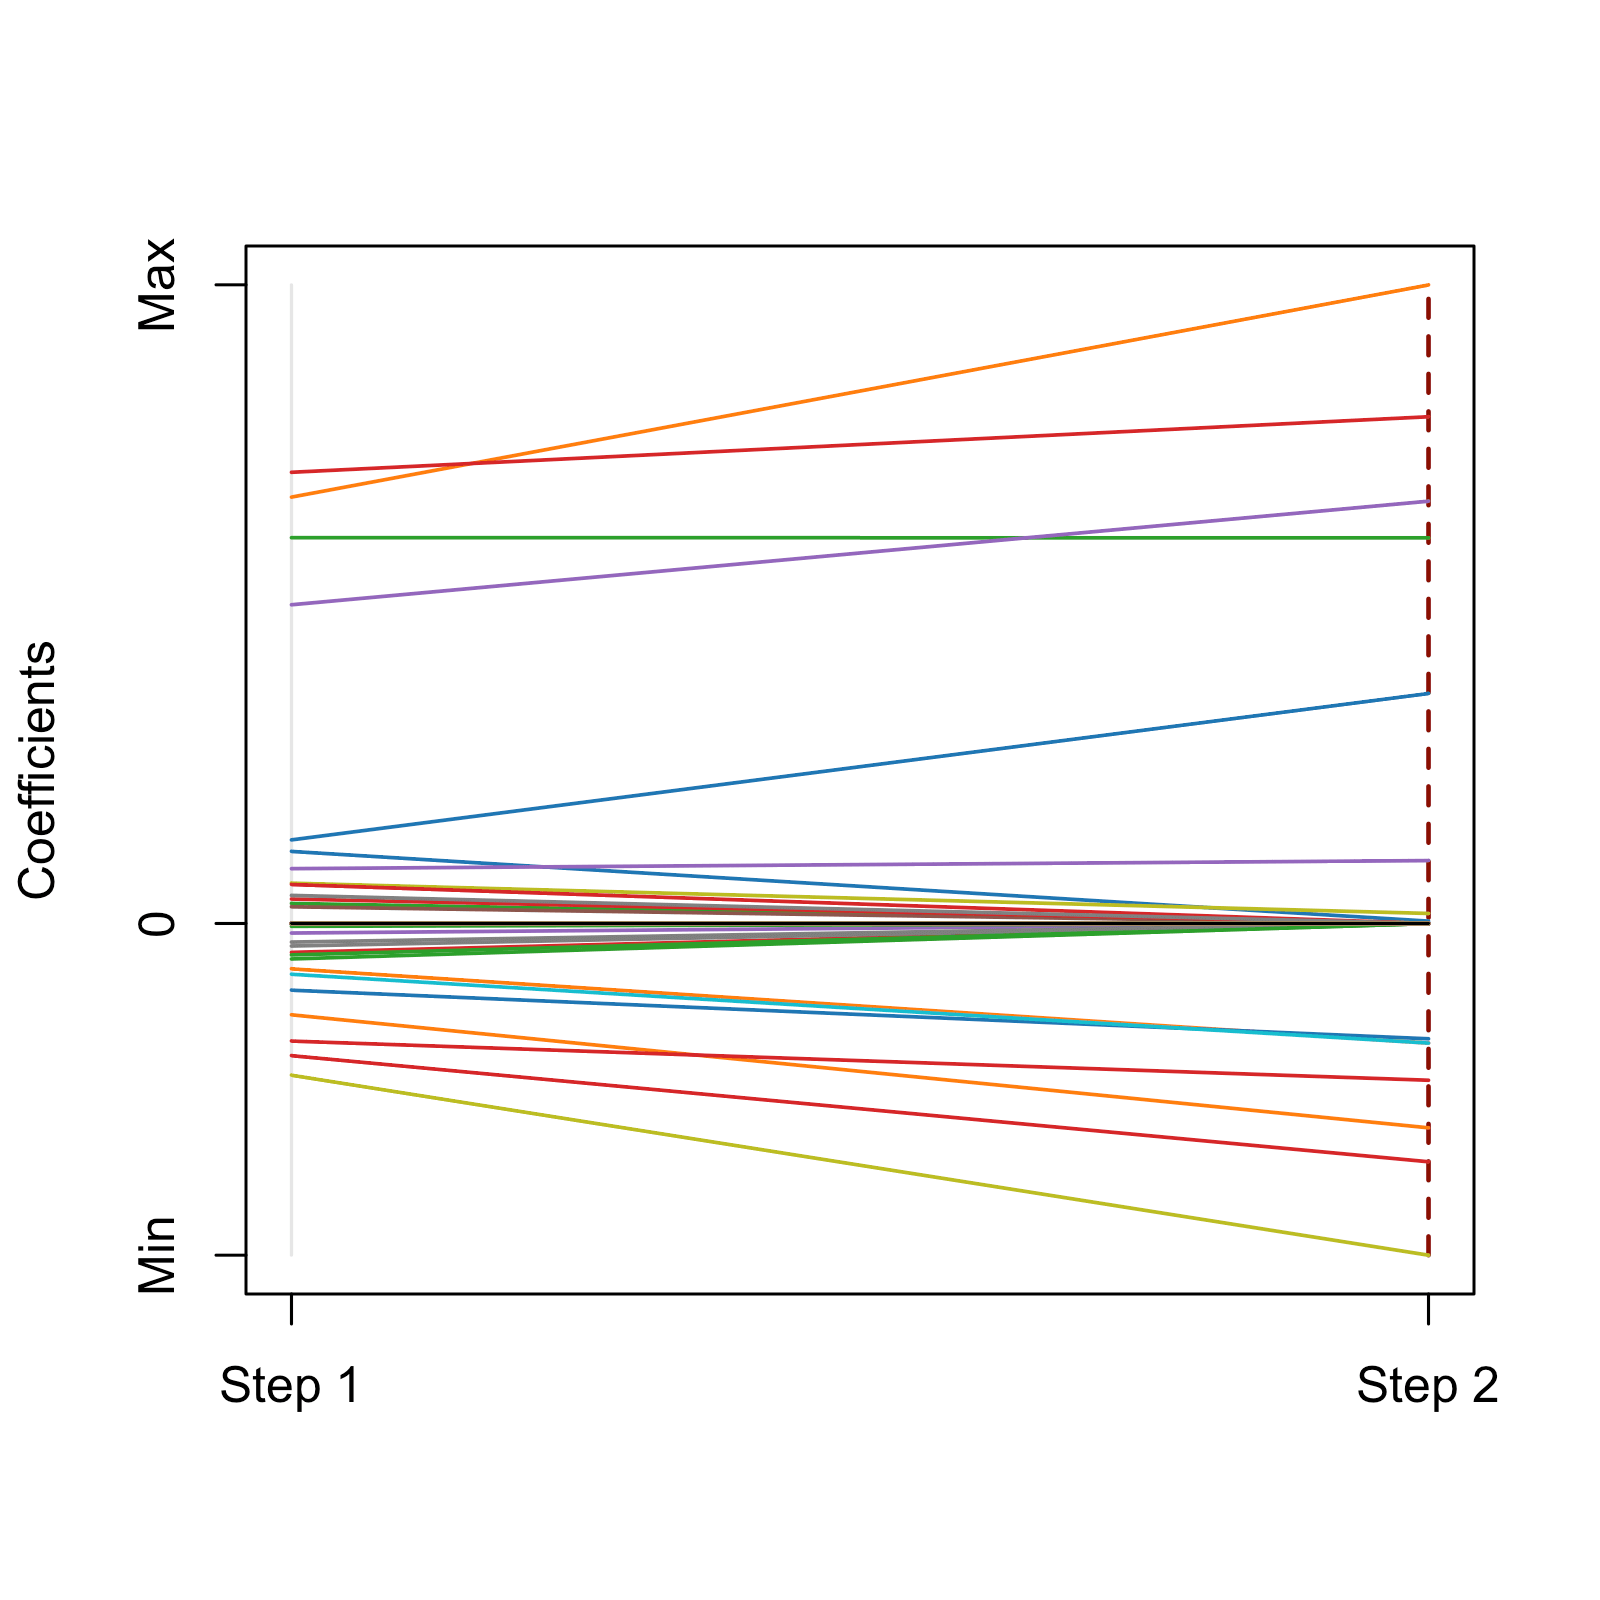
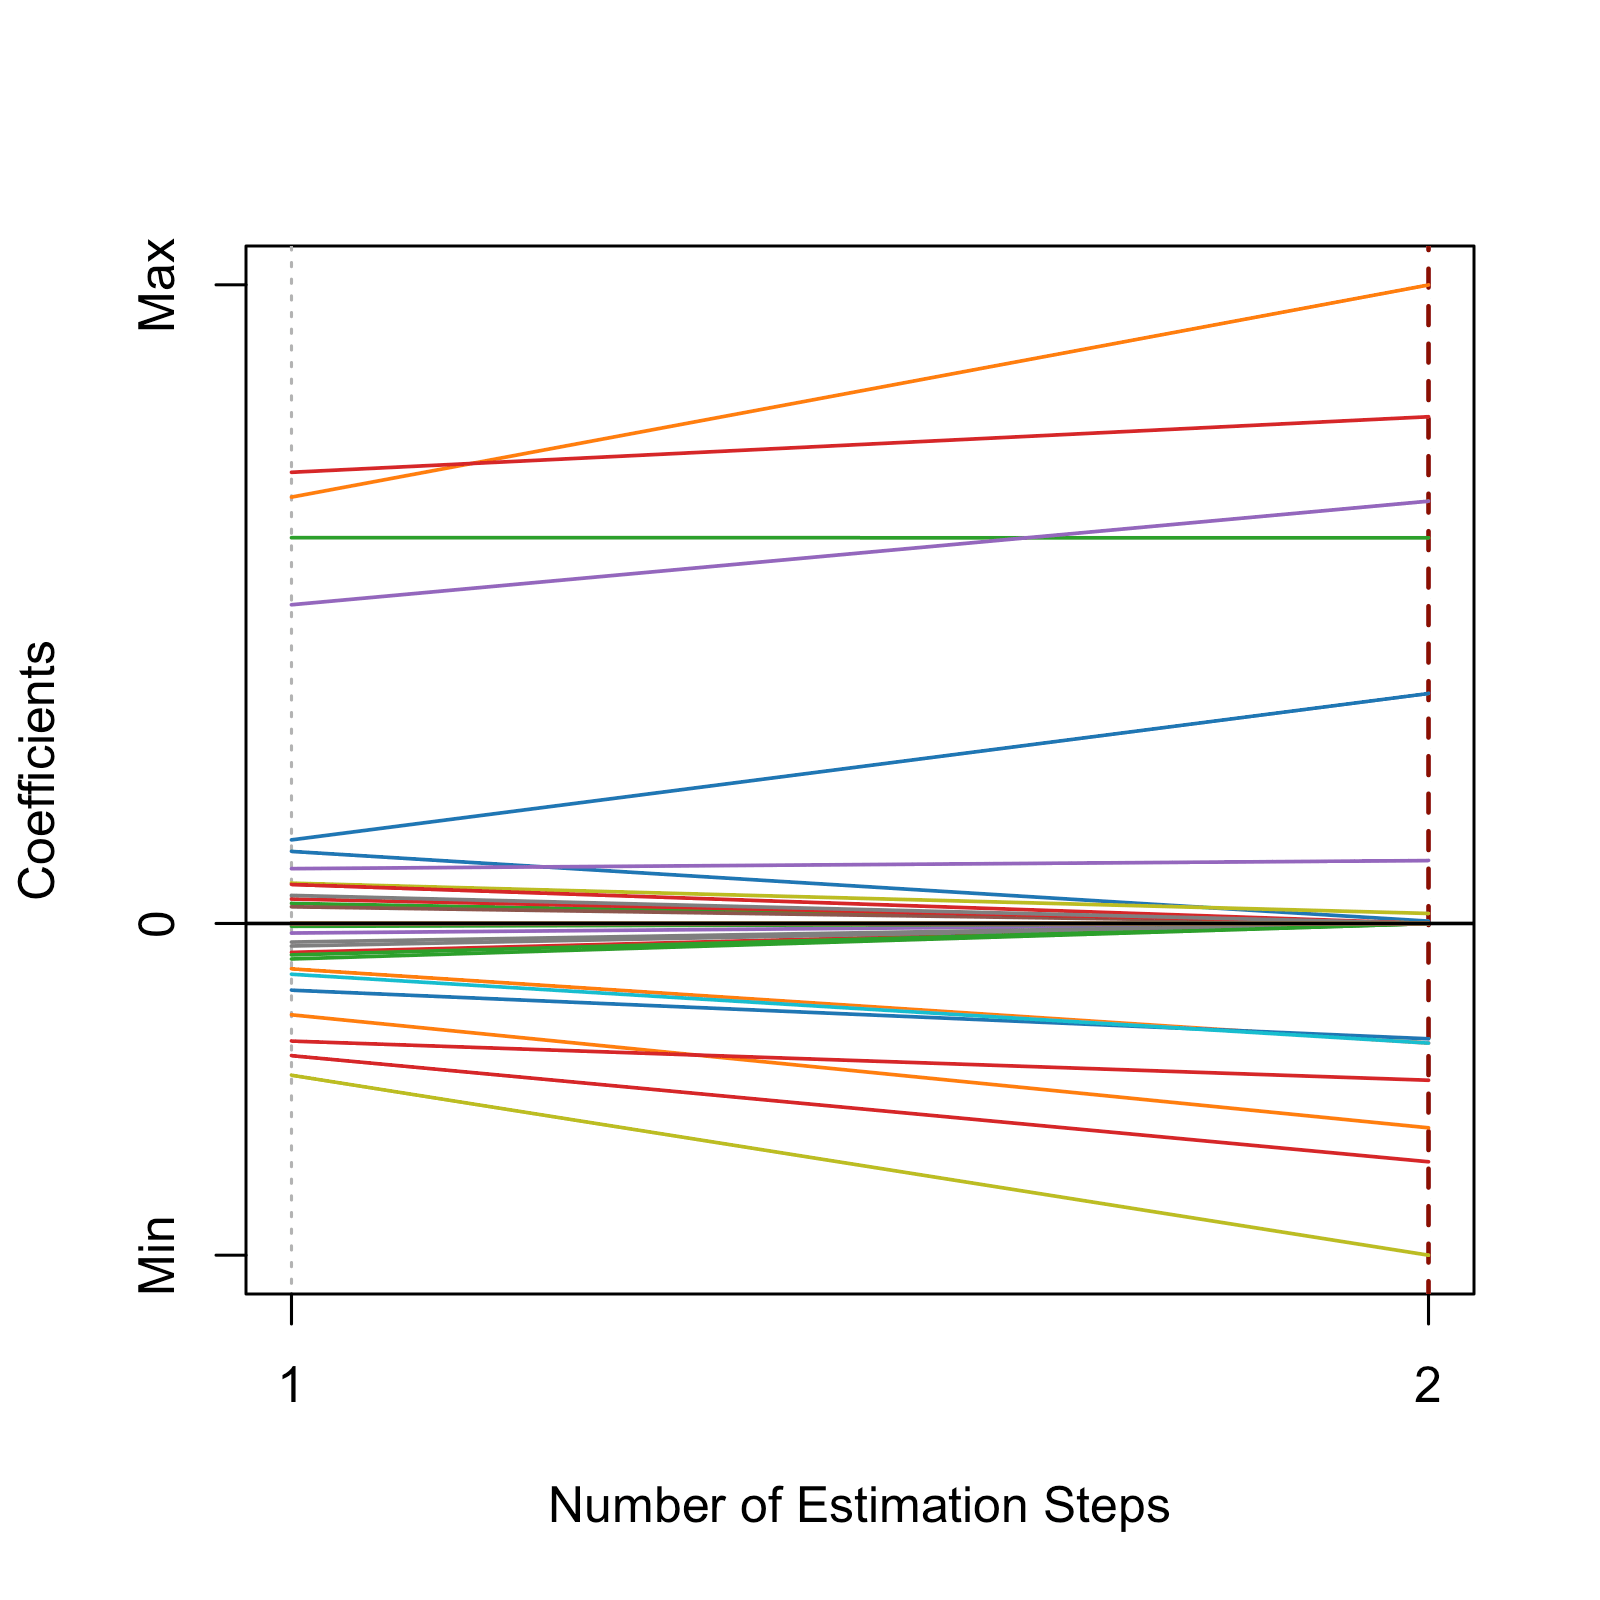
update website for v2.4 release

diff --git a/news/index.html b/news/index.html
@@ -82,12 +82,22 @@
     </div>
 
     <div class="contents">
-    <div id="msaenet-2-3-2017-02-09" class="section level1">
+    <div id="msaenet-2-4-2017-02-17" class="section level1">
 <h1 class="hasAnchor">
-<a href="#msaenet-2-3-2017-02-09" class="anchor"> </a>msaenet 2.3 (2017-02-09)</h1>
+<a href="#msaenet-2-4-2017-02-17" class="anchor"> </a>msaenet 2.4 (2017-02-17)</h1>
 <div id="improvements" class="section level2">
 <h2 class="hasAnchor">
 <a href="#improvements" class="anchor"> </a>Improvements</h2>
+<ul><li>Improved graphical details for coefficient path plots, following the general graphic style in the ESL (<em>The Elements of Statistical Learning</em>) book.</li>
+<li>More options available in <code><a href="../reference/plot.msaenet.html">plot.msaenet()</a></code> for extra flexibility: it is now possible to set important properties of the label appearance such as position, offset, font size, and axis titles via the new arguments <code>label.pos</code>, <code>label.offset</code>, <code>label.cex</code>, <code>xlab</code>, and <code>ylab</code>.</li>
+</ul></div>
+</div>
+    <div id="msaenet-2-3-2017-02-09" class="section level1">
+<h1 class="hasAnchor">
+<a href="#msaenet-2-3-2017-02-09" class="anchor"> </a>msaenet 2.3 (2017-02-09)</h1>
+<div id="improvements-1" class="section level2">
+<h2 class="hasAnchor">
+<a href="#improvements-1" class="anchor"> </a>Improvements</h2>
 <ul><li>Reduced model saturation cases and improved speed at the initialization step for MCP-net and SCAD-net based models when <code>init = "ridge"</code>, by using the ridge estimation implementation from <code>glmnet</code>. As a benefit, we now have a more aligned baseline for the comparison between elastic-net based models and MCP-net/SCAD-net based models when <code>init = "ridge"</code>.</li>
 <li>Style improvements in code and examples: reduced whitespace with a new formatting scheme.</li>
 </ul></div>
@@ -103,9 +113,9 @@
 <li>Added arguments <code>ebic.gamma</code> and <code>ebic.gamma.nsteps</code> to control the EBIC tuning parameter, if <code>ebic</code> is specified by <code>tune</code> or <code>tune.nsteps</code>.</li>
 <li>Redesigned plot function: now supports two types of plots (coefficient path, screeplot of the optimal step selection criterion), optimal step highlighting, variable labeling, and color palette customization. See <code><a href="../reference/plot.msaenet.html">?plot.msaenet</a></code> for details.</li>
 </ul></div>
-<div id="improvements-1" class="section level2">
+<div id="improvements-2" class="section level2">
 <h2 class="hasAnchor">
-<a href="#improvements-1" class="anchor"> </a>Improvements</h2>
+<a href="#improvements-2" class="anchor"> </a>Improvements</h2>
 <ul><li>Renamed previous argument <code>gamma</code> (scaling factor for adaptive weights) to <code>scale</code> to avoid possible confusion.</li>
 <li>Reset the default values of candidate concavity parameter <code>gammas</code> to be 3.7 for SCAD-net and 3 for MCP-net.</li>
 <li>Unified the supported model <code>family</code> in all model types to be <code>"gaussian"</code>, <code>"binomial"</code>, <code>"poisson"</code>, and <code>"cox"</code>.</li>
@@ -121,9 +131,9 @@
 <li>Added function <code><a href="../reference/msaenet.fn.html">msaenet.fn()</a></code> for computing the number of false negative selections in msaenet models.</li>
 <li>Added function <code><a href="../reference/msaenet.mse.html">msaenet.mse()</a></code> for computing mean squared error (MSE).</li>
 </ul></div>
-<div id="improvements-2" class="section level2">
+<div id="improvements-3" class="section level2">
 <h2 class="hasAnchor">
-<a href="#improvements-2" class="anchor"> </a>Improvements</h2>
+<a href="#improvements-3" class="anchor"> </a>Improvements</h2>
 <ul><li>Speed improvements in <code><a href="../reference/msaenet.sim.gaussian.html">msaenet.sim.gaussian()</a></code> by more vectorization when generating correlation matrices.</li>
 <li>Added parameters <code>max.iter</code> and <code>epsilon</code> for MCP-net and SCAD-net related functions to have finer control over convergence criterion. By default, <code>max.iter = 10000</code> and <code>epsilon = 1e-4</code>.</li>
 </ul></div>
@@ -140,9 +150,9 @@
 <li>Added support for multi-step adaptive SCAD-net (MSASNet). See <code><a href="../reference/msasnet.html">?msasnet</a></code> for details.</li>
 <li>Added <code><a href="../reference/msaenet.nzv.all.html">msaenet.nzv.all()</a></code> for displaying the indices of non-zero variables in all adaptive estimation steps.</li>
 </ul></div>
-<div id="improvements-3" class="section level2">
+<div id="improvements-4" class="section level2">
 <h2 class="hasAnchor">
-<a href="#improvements-3" class="anchor"> </a>Improvements</h2>
+<a href="#improvements-4" class="anchor"> </a>Improvements</h2>
 <ul><li>More flexible <code>predict.msaenet</code> method allowing users to specify prediction type.</li>
 </ul></div>
 </div>
@@ -154,9 +164,9 @@
 <a href="#new-features-3" class="anchor"> </a>New Features</h2>
 <ul><li>Added method <code>coef</code> for extracting model coefficients. See <code><a href="../reference/coef.msaenet.html">?coef.msaenet</a></code> for details.</li>
 </ul></div>
-<div id="improvements-4" class="section level2">
+<div id="improvements-5" class="section level2">
 <h2 class="hasAnchor">
-<a href="#improvements-4" class="anchor"> </a>Improvements</h2>
+<a href="#improvements-5" class="anchor"> </a>Improvements</h2>
 <ul><li>New website (<a href="https://msaenet.com" class="uri">https://msaenet.com</a>) generated by pkgdown, with a full set of function documentation and vignettes available.</li>
 <li>Added Windows continuous integration support using AppVeyor.</li>
 </ul></div>
@@ -177,6 +187,7 @@
     <div id="tocnav">
       <h2>Contents</h2>
       <ul class="nav nav-pills nav-stacked">
+        <li><a href="#msaenet-2-4-2017-02-17">2.4</a></li>
         <li><a href="#msaenet-2-3-2017-02-09">2.3</a></li>
         <li><a href="#msaenet-2-2-2017-02-02">2.2</a></li>
         <li><a href="#msaenet-2-1-2017-01-15">2.1</a></li>

diff --git a/reference/plot.msaenet.html b/reference/plot.msaenet.html
@@ -86,7 +86,9 @@
 
     <pre><span class='co'># S3 method for msaenet</span>
 <span class='fu'>plot</span>(<span class='no'>x</span>, <span class='kw'>type</span> <span class='kw'>=</span> <span class='fu'>c</span>(<span class='st'>"coef"</span>, <span class='st'>"criterion"</span>), <span class='kw'>nsteps</span> <span class='kw'>=</span> <span class='kw'>NULL</span>,
-  <span class='kw'>highlight</span> <span class='kw'>=</span> <span class='fl'>TRUE</span>, <span class='kw'>col</span> <span class='kw'>=</span> <span class='kw'>NULL</span>, <span class='kw'>label</span> <span class='kw'>=</span> <span class='fl'>FALSE</span>, <span class='kw'>label.vars</span> <span class='kw'>=</span> <span class='kw'>NULL</span>, <span class='no'>...</span>)</pre>
+  <span class='kw'>highlight</span> <span class='kw'>=</span> <span class='fl'>TRUE</span>, <span class='kw'>col</span> <span class='kw'>=</span> <span class='kw'>NULL</span>, <span class='kw'>label</span> <span class='kw'>=</span> <span class='fl'>FALSE</span>, <span class='kw'>label.vars</span> <span class='kw'>=</span> <span class='kw'>NULL</span>,
+  <span class='kw'>label.pos</span> <span class='kw'>=</span> <span class='fl'>2</span>, <span class='kw'>label.offset</span> <span class='kw'>=</span> <span class='fl'>0.3</span>, <span class='kw'>label.cex</span> <span class='kw'>=</span> <span class='fl'>0.7</span>, <span class='kw'>xlab</span> <span class='kw'>=</span> <span class='kw'>NULL</span>,
+  <span class='kw'>ylab</span> <span class='kw'>=</span> <span class='kw'>NULL</span>, <span class='no'>...</span>)</pre>
     
     <h2 class="hasAnchor" id="arguments"><a class="anchor" href="#arguments"></a> Arguments</h2>
     <dl class="dl-horizontal">
@@ -115,6 +117,19 @@ variables will be used as labels.</dd>
       <dt>label.vars</dt>
       <dd>Labels to use for all the variables
 if <code>label = &quot;TRUE&quot;</code>.</dd>
+      <dt>label.pos</dt>
+      <dd>Position of the labels. See argument
+<code>pos</code> in <code><a href='http://www.rdocumentation.org/packages/graphics/topics/text'>text</a></code> for details.</dd>
+      <dt>label.offset</dt>
+      <dd>Offset of the labels. See argument
+<code>offset</code> in <code><a href='http://www.rdocumentation.org/packages/graphics/topics/text'>text</a></code> for details.</dd>
+      <dt>label.cex</dt>
+      <dd>Character expansion factor of the labels.
+See argument <code>cex</code> in <code><a href='http://www.rdocumentation.org/packages/graphics/topics/text'>text</a></code> for details.</dd>
+      <dt>xlab</dt>
+      <dd>Title for x axis. If is <code>NULL</code>, will use the default title.</dd>
+      <dt>ylab</dt>
+      <dd>Title for y axis. If is <code>NULL</code>, will use the default title.</dd>
       <dt>...</dt>
       <dd>Other parameters (not used).</dd>
     </dl>

diff --git a/articles/msaenet.html b/articles/msaenet.html
@@ -41,7 +41,7 @@
       <h1>A Quick Introduction to msaenet</h1>
                         <h4 class="author">Nan Xiao &lt;<a href="https://nanx.me" class="uri">https://nanx.me</a>&gt;</h4>
             
-            <h4 class="date">2017-02-09</h4>
+            <h4 class="date">2017-02-17</h4>
           </div>
 
     

diff --git a/articles/index.html b/articles/index.html
@@ -75,7 +75,7 @@
       </header>
 
       <div class="page-header">
-  <h1>Vignette reference <small>version&nbsp;2.3</small></h1>
+  <h1>Vignette reference <small>version&nbsp;2.4</small></h1>
 </div>
 
 <div class="row">

diff --git a/reference/index.html b/reference/index.html
@@ -78,7 +78,7 @@
   <div class="col-md-9">
     <div class="page-header">
       <h1>Function reference</h1>
-      <h4>version&nbsp;2.3</h4>
+      <h4>version&nbsp;2.4</h4>
     </div>
 
     <div class="contents">
